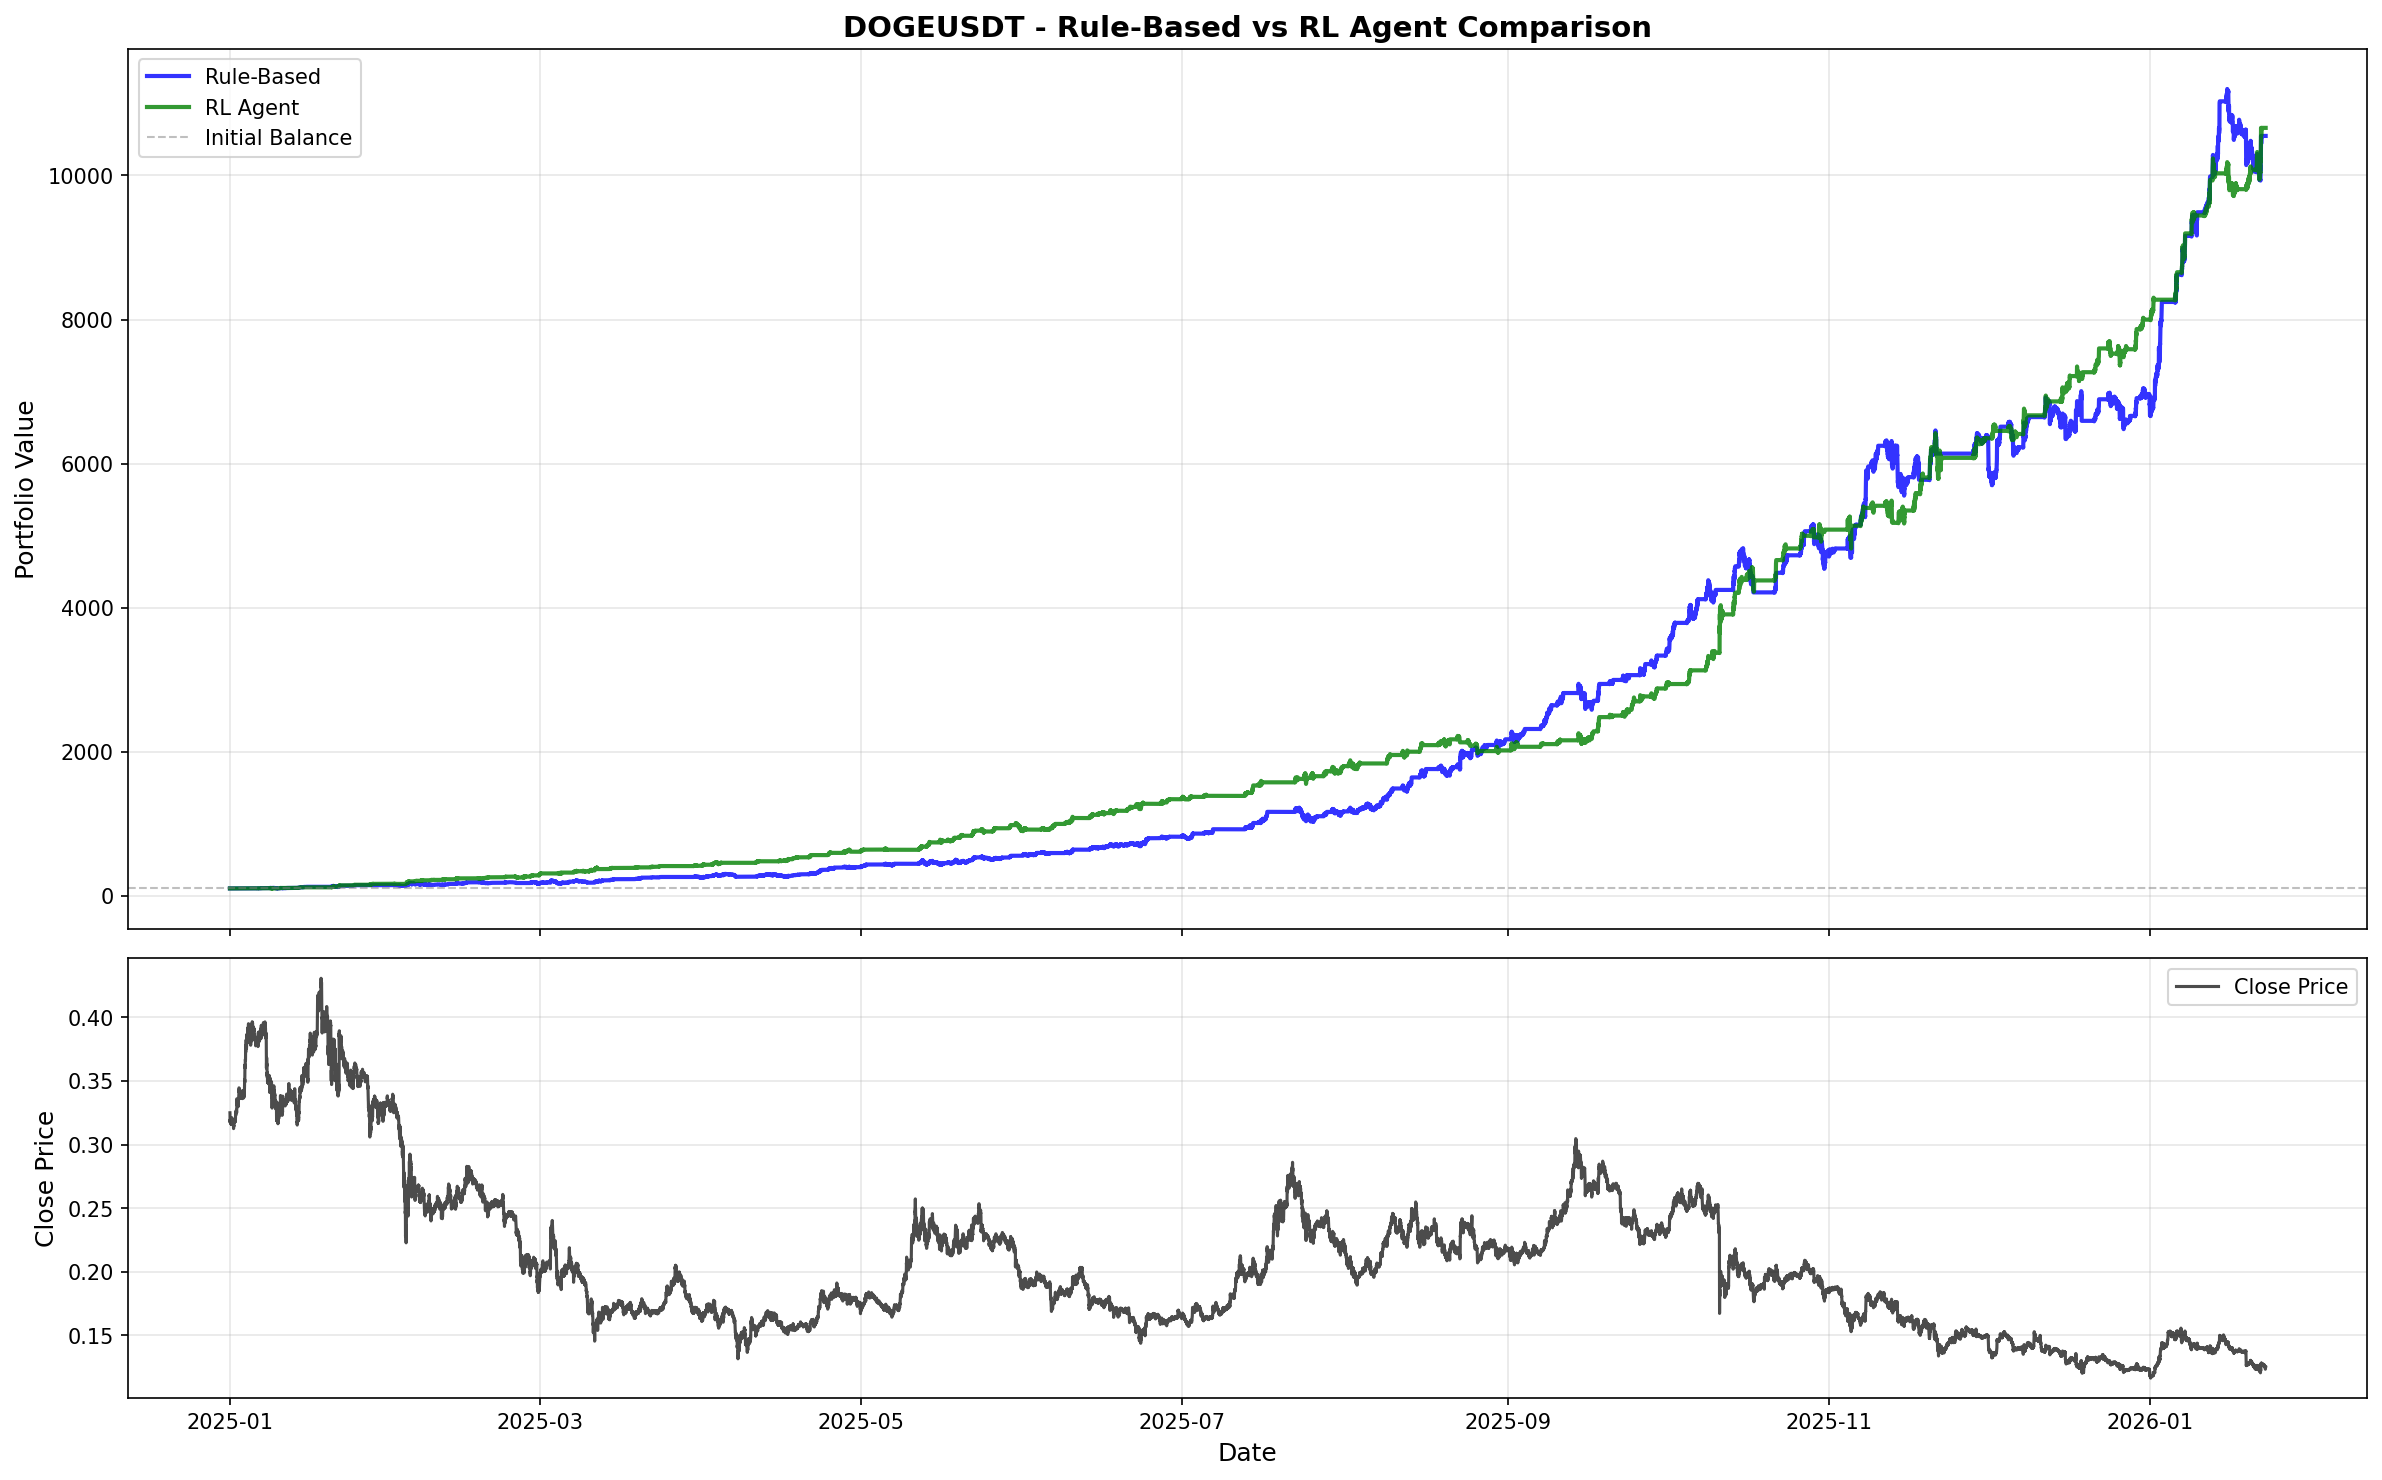
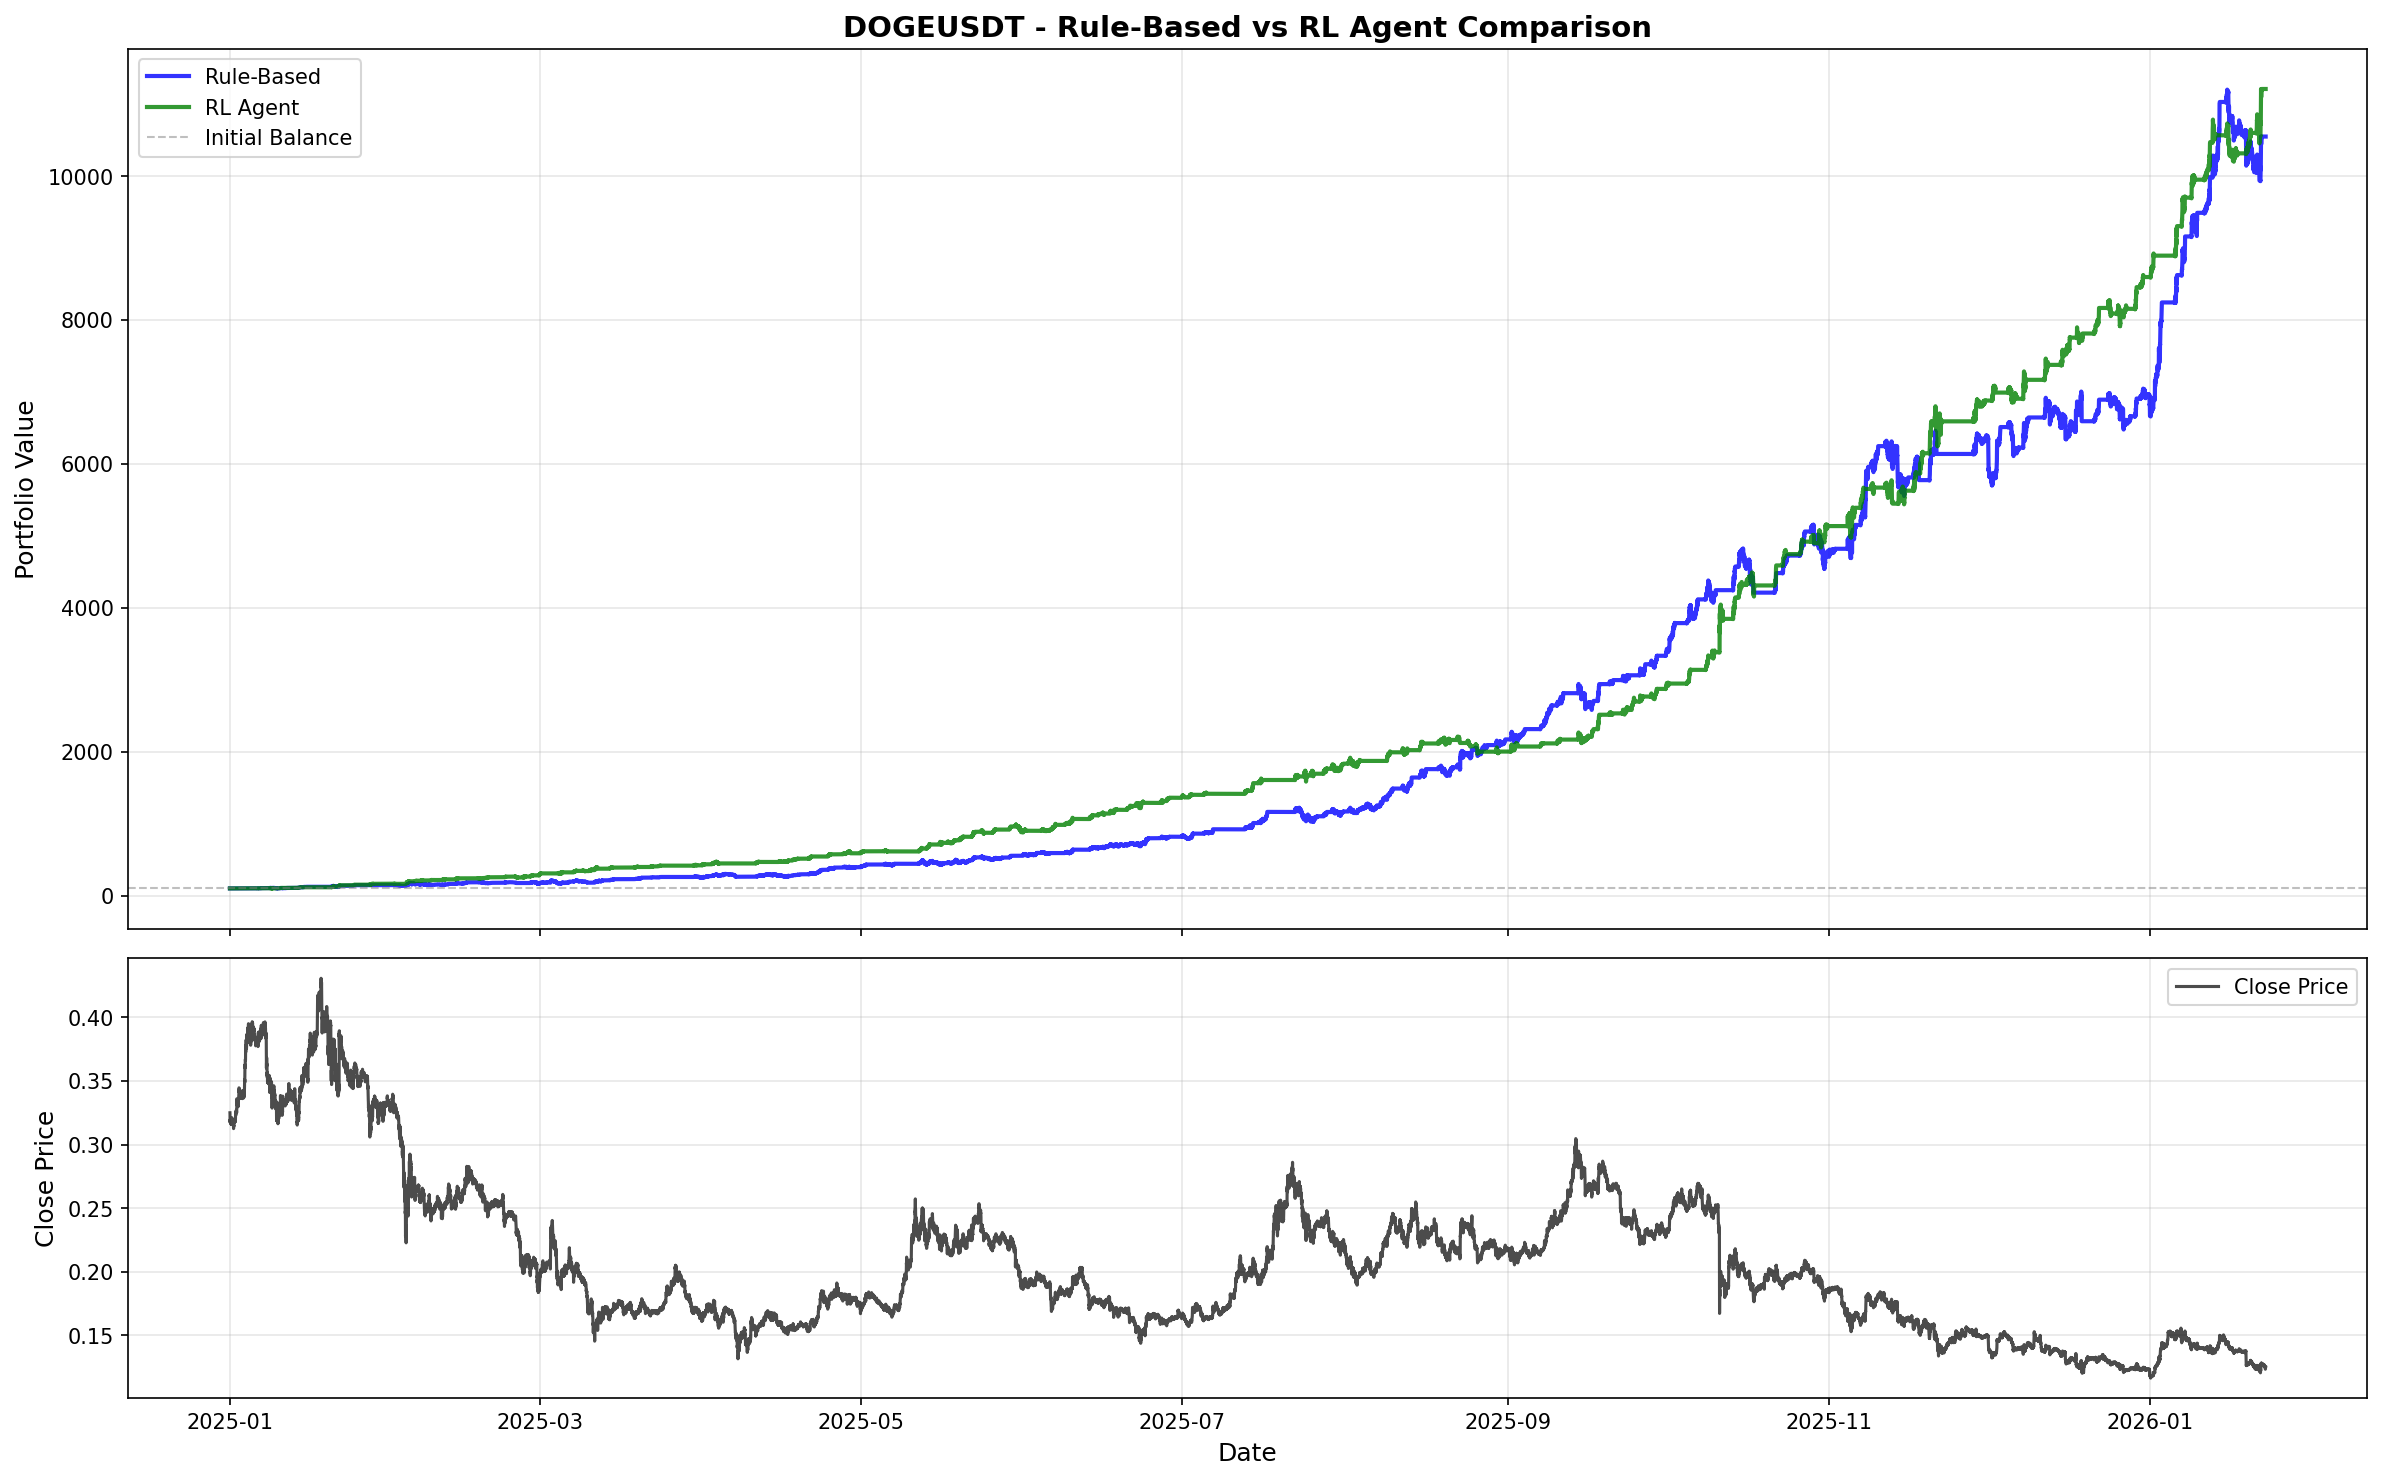
release version 4

diff --git a/rl_risk_env.py b/rl_risk_env.py
@@ -215,7 +215,7 @@ class RiskManagementEnv(gym.Env):
                                           # (dividing return by periods_held meant same return = smaller reward)
             'holding_base': 0.0,          # Base reward for holding
             'holding_penalty': 0.01,       # Small penalty per hold step (encourages closing instead of holding to end)
-            'closeness_to_min_penalty': 1.0,  # Penalty for holding near min price
+            'closeness_to_min_penalty': 2.0,  # Penalty for holding near min price
             'momentum_reward': 0.5,       # Reward for holding when price is trending up
             'unrealized_profit_reward': 0.3,  # Reward for holding profitable positions (encourages letting winners run)
             'closeness_to_max_reward': 1.0,  # Reward for holding when close to max price (potential for more)
@@ -666,114 +666,6 @@ class RiskManagementEnv(gym.Env):
         observation = np.append(market_row, self._get_account_features())
         return observation
     
-    def _calculate_reward_total_return_only(self, action: int, done: bool) -> float:
-        """
-        Calculate reward focused on encouraging closing when price is close to max price in episode.
-        
-        Episode has max_steps (default 100) bars from entry. Goal: close at episode max price.
-        Terminal-only reward: hold steps get 0; all reward on close step.
-        
-        Action space: 0 = Hold, 1 = Close
-        
-        Reward strategy:
-        - Holding (action 0): reward = 0
-        - Closing (action 1): Reward based on how close current price is to episode max price
-        """
-        current_price = float(self.price_window.iloc[self.current_idx])
-        periods_held = self.current_idx + 1
-        # Calculate price range for normalization
-        if self.episode_max_price is None:
-            self.episode_max_price = self.entry_price
-        if self.episode_min_price is None:
-            self.episode_min_price = self.entry_price
-
-        price_change_pct = (current_price - self.entry_price) / self.entry_price
-        position_return = price_change_pct - 2 * self.fee_rate  # Account for entry + exit fees
-        price_distance_from_max = abs(self.episode_max_price - current_price)
-        # Calculate price range in episode (max - min) for normalization
-        price_range = self.episode_max_price - self.episode_min_price
-        
-        # Track statistics for evaluation only (NOT used in reward calculation)
-        if action == 1 or done:  # Closing
-            if position_return > 0:
-                self.wins += 1
-            self.total_trades += 1
-            self.returns_history.append(position_return)
-        
-        # Reset reward components tracking
-        self._reward_components = {}
-        
-        # ========== HOLDING ACTIONS (action 0) ==========
-        # Terminal-only reward: no per-step reward for hold. All reward on close step.
-        if action == 0 and not done:
-            self._reward_components['holding_base'] = 0.0
-            return 0.0
-        
-        # ========== CLOSING ACTIONS (action 1 or done=True) ==========
-        # Calculate how close current price is to episode max price
-        # Calculate closeness to max price (0.0 = far from max, 1.0 = at max)
-        if price_range > 1e-10:  # Avoid division by zero
-            # Normalized distance: 0 = at max, 1 = at min
-            normalized_distance = price_distance_from_max / price_range
-            # Closeness: 1.0 = at max, 0.0 = at min
-            closeness_to_max = 1.0 - normalized_distance
-        else:
-            # No price movement in episode (max == min)
-            # If current price equals max (or very close), reward closing
-            if price_distance_from_max < 1e-10:
-                closeness_to_max = 1.0
-            else:
-                closeness_to_max = 0.0
-        
-        # ========== REWARD BASED ON CLOSENESS TO MAX PRICE ==========
-        # Primary reward: proportional to closeness to max price
-        # Scale: 0.0 (far from max) to 1.0 (at max)
-        # For PPO stability: keep rewards in reasonable range [0, 10]
-        
-        if closeness_to_max >= 0.9:
-            # Excellent: Closing very close to max (within 10% of range)
-            reward = 10.0 * closeness_to_max  # 9.0 to 10.0
-        elif closeness_to_max >= 0.7:
-            # Very good: Closing near max (within 30% of range)
-            reward = 7.0 * closeness_to_max  # ~4.9 to 6.3
-        elif closeness_to_max >= 0.5:
-            # Good: Closing above midpoint
-            reward = 5.0 * closeness_to_max  # ~2.5 to 3.5
-        elif closeness_to_max >= 0.3:
-            # Fair: Closing below midpoint but not at bottom
-            reward = 2.0 * closeness_to_max  # ~0.6 to 1.0
-        elif closeness_to_max >= 0.1:
-            # Poor: Closing far from max
-            reward = 0.5 * closeness_to_max  # ~0.05 to 0.5
-        else:
-            # Very poor: Closing at or near minimum price
-            reward = -1.0  # Penalty for closing at worst price
-        
-        self._reward_components['closeness_to_max'] = reward
-        
-        # ========== BONUS FOR PROFITABLE CLOSES ==========
-        # Small bonus if closing with profit (encourages profitable exits)
-        # Note: position_return already calculated above, reuse it
-        if action == 1 or done:
-            if position_return > 0:
-                # Small bonus for profitable close (scaled by profit)
-                profit_bonus = min(position_return * 2.0, 2.0)  # Max bonus of 2.0
-                reward += profit_bonus
-                self._reward_components['profit_bonus'] = profit_bonus
-            elif position_return < -0.05:  # Large loss (>5%)
-                # Small penalty for large losses
-                loss_penalty = -0.5
-                reward += loss_penalty
-                self._reward_components['loss_penalty'] = loss_penalty
-        
-        # ========== FINAL REWARD CLIPPING ==========
-        # Clip reward to prevent extreme values
-        # For PPO with VecNormalize: raw rewards in reasonable range [-2, 10]
-        # VecNormalize will normalize and clip normalized rewards to [-5, 5]
-        reward = np.clip(reward, -2.0, 10.0)
-        
-        return float(reward)
-    
     def _calculate_reward_long_term(self, action: int, done: bool) -> float:
         """
         Improved reward function for long-term performance optimization.
@@ -916,9 +808,7 @@ class RiskManagementEnv(gym.Env):
         - return self._calculate_reward_total_return_only(action, done)  # Original
         - return self._calculate_reward_long_term(action, done)  # Improved for long-term
         """
-        # Switch between reward functions here
         return self._calculate_reward_long_term(action, done)  # Using improved long-term reward
-        # return self._calculate_reward_total_return_only(action, done)  # Original reward
     
     def reset(
         self, 

diff --git a/backtest_xauusdt_rl.py b/backtest_xauusdt_rl.py
@@ -53,7 +53,7 @@ logging.basicConfig(
 logger = logging.getLogger(__name__)
 
 # Configuration
-TICKER = "ZECUSDT"
+TICKER = "XRPUSDT"
 RESULTS_DIR = Path("results")
 XAUUSDT_RESULTS_DIR = RESULTS_DIR / "XAUUSDT_RL"
 XAUUSDT_RESULTS_DIR.mkdir(parents=True, exist_ok=True)
@@ -61,7 +61,7 @@ MODEL_LOAD_DIR = Path("models/rl_agent")
 DEFAULT_MODEL_NAME = "best_model"
 
 # Date range for backtesting
-START_DATE = "2015-01-01"
+START_DATE = "2025-12-06"
 END_DATE = datetime.now().strftime("%Y-%m-%d")
 TIME_INTERVAL = "15m"  # 15 minutes
 

diff --git a/rl_agent/config.py b/rl_agent/config.py
@@ -61,10 +61,10 @@ EARLY_STOPPING_MODE = "max"
 # Date ranges (YYYY-MM-DD or None)
 TRAIN_START_DATE = "2010-01-01"
 TRAIN_END_DATE = "2024-01-01"
-VAL_START_DATE = "2024-01-01"
-VAL_END_DATE = "2025-01-01"
-EVAL_START_DATE = "2025-01-01"
-EVAL_END_DATE = "2026-01-24"
+VAL_START_DATE = "2025-01-01"
+VAL_END_DATE = "2026-01-01"
+EVAL_START_DATE = "2026-01-01"
+EVAL_END_DATE = "2026-02-15"
 
 # Entry/exit signals
 USE_TECHNICAL_SIGNALS = True

diff --git a/rl_agent/training.py b/rl_agent/training.py
@@ -24,6 +24,7 @@ from rl_agent.config import (
     ENABLE_EARLY_STOPPING,
     ENT_COEF,
     EVAL_FREQ,
+    VF_COEF,
     GAE_LAMBDA,
     GAMMA,
     INITIAL_BALANCE,
